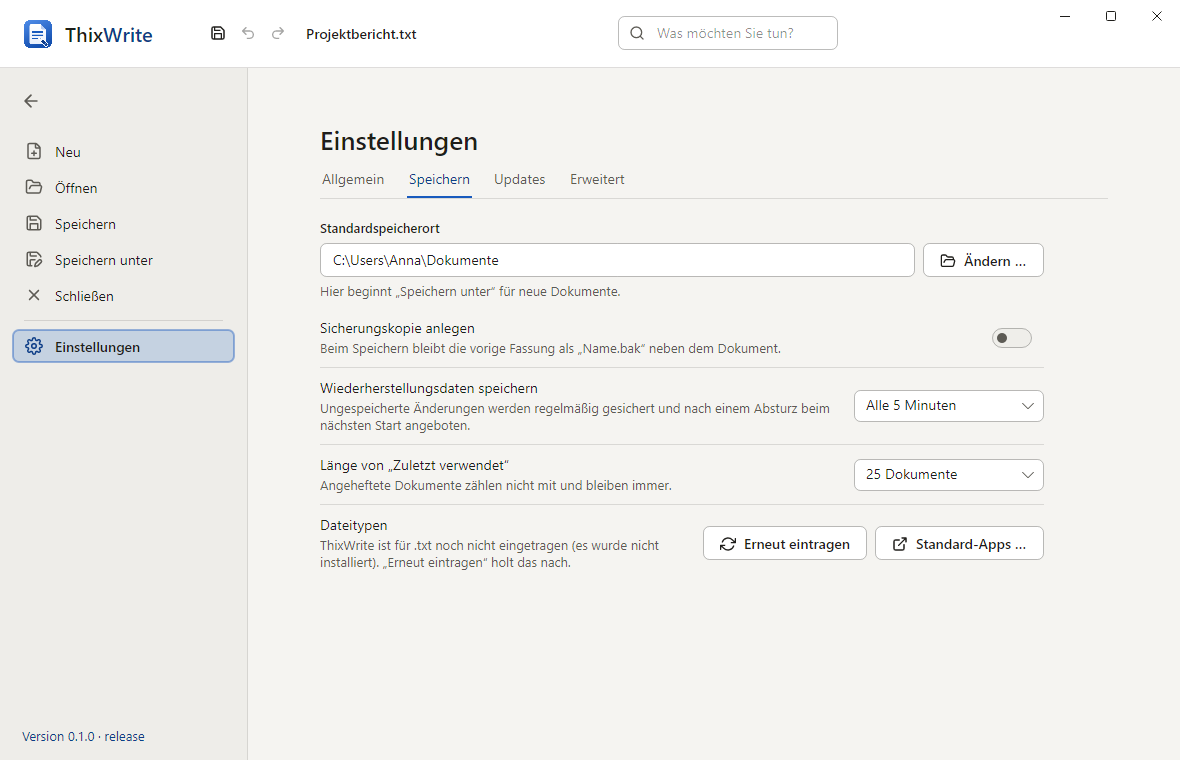
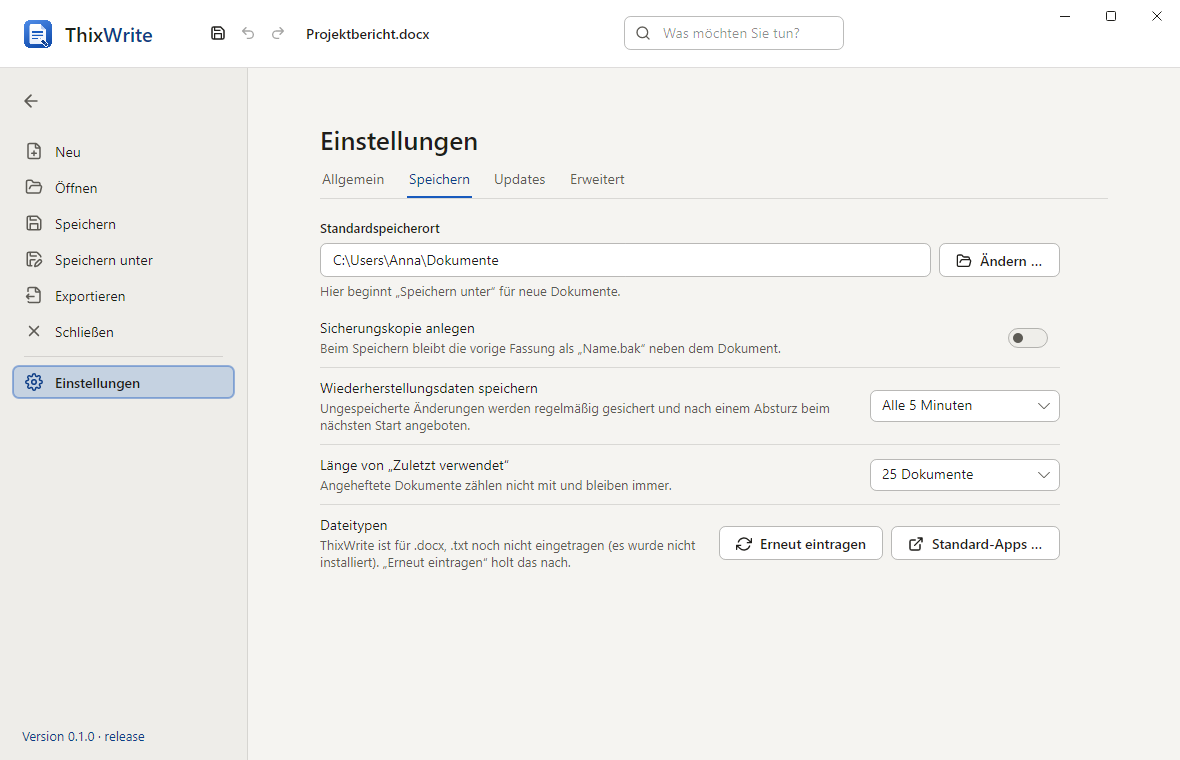
Docs: ThixWrite milestone 1a – README with the new pictures and the shortcuts, CLAUDE.md map and editor architecture, how to add a command, PLAN status and gaps

diff --git a/CLAUDE.md b/CLAUDE.md
@@ -12,11 +12,11 @@ the other Thix apps (MatDesktop, "Apple-like"). Office formats are the default (
 document is a window of its own, all in one process per app (like Word). UI language German (the Office apps say **"Sie"**,
 like "Was möchten Sie tun?"); code, comments and identifiers English.
 
-**Phase 0 (done): the foundation.** The shared core and desktop, the ThixWrite skeleton with a PLACEHOLDER editor ("Editor folgt",
-a plain text box on `.txt`, so that new / open / save / recent / recovery / unsaved prompt / file activation are real), the
-logos of all three apps, CI, and MatDesktop 0.3.0's MatRibbon, MatBackstage, MatStatusBar and MatQuickAccess in the window.
-**Next:** phase 1a, ThixWrite's native editor and docx (it registers the commands `WriteCommandIds` names; the ribbon shows
-them in their places). Do not build ribbon controls of your own and do not grow the placeholder editor.
+**Phase 0 (done): the foundation.** The shared core and desktop, the logos of all three apps, CI, and MatDesktop 0.3.0's
+MatRibbon, MatBackstage, MatStatusBar and MatQuickAccess in the window.
+**Milestone 1a (done): ThixWrite's native editor** on `WordDocument` (docx default, txt), the filled ribbon, find/replace,
+page setup, zoom, PDF export (see "ThixWrite's editor" below; gaps in docs/PLAN.md). **Next:** 1b (tables, images, headers
+and footers, printing …). Do not build ribbon controls of your own.
 
 Stack: **.NET 10** (`global.json` 10.0.100, latestMinor), C#, **Avalonia 11.3.22** with **MatDesktop 0.3.0** (a copy), xunit +
 Avalonia.Headless. Reference apps (sibling folders): ThixCalendar (structure, setup, OTA), ThixNote (document app: file types,
@@ -54,6 +54,7 @@ src/ThixOffice.Core        (no UI) shared by every app; every service is paramet
 src/ThixOffice.Desktop     shared Avalonia UI
   MatDesktop/              COPY of MatDesign's desktop toolkit 0.3.0 (never edited here)
   OfficeApplication        base Application of every app: Definition, CreateDocument, CreateEditor, AddCommands, CreateRibbon(window),
+                           CreateBackstageItems(window), SelfTestChecks, SnapshotScenes + ShowSnapshotScene/EndSnapshotScene,
                            FillSampleDocument; start-up (self test, Windows setup modes, single instance forwarding files, recovery,
                            crash reports, theme), NewDocumentWindow, ShowWindow, OpenFilesAsync/OpenFileAsync, HandleActivation,
                            ExitApplication / OnExit (installs a downloaded update); the last window ends the app on Windows, not on
@@ -64,23 +65,40 @@ src/ThixOffice.Desktop     shared Avalonia UI
                            unsaved dot, CommandSearchBox; MatRibbon; message bar; editor; status bar; backstage over it all;
                            keyboard; unsaved prompt; recovery timer), OfficeRibbonBinding + OfficeRibbonItems (see below),
                            OfficeBackstage (MatBackstage with the pages by id; BackstageItem/BackstageContent), OfficeStatusBar
-                           (MatStatusBar: texts by id + zoom), OfficeEditor (the app's part; Zoom 10–500 %), CommandSearchBox,
+                           (MatStatusBar: texts by id + zoom), OfficeEditor (the app's part; Zoom 10–500 %, OpeningWarning, RequestZoomLevel), CommandSearchBox,
                            IFileDialogs + SystemFileDialogs
   Pages/                   NewPage, OpenPage (Durchsuchen + Zuletzt verwendet: search, sort, pin, show, remove), SaveAsPage,
                            SettingsPage (Allgemein | Speichern | Updates | Erweitert), AboutPage
   Dialogs/                 QuestionDialog (+ SaveChangesDialog: Speichern, Abbrechen, gap, Nicht speichern), ProblemReportDialog
   Controls/                ActionBar, IconLabel, InfoBar, FormErrors (from the reference apps)
-src/ThixWrite.Core         ThixWriteApp.Definition; Documents/TextDocument (PHASE 0 ONLY: plain text, typing undo)
-src/ThixWrite              App (OfficeApplication), Program, Editor/PlaceholderEditor (PHASE 0 ONLY), Editor/WriteRibbon
-                           (WriteCommandIds; the ribbon Start | Einfügen | Layout | Ansicht as a MatRibbonDefinition; "Datum und
-                           Uhrzeit"), Assets (rendered by tools/render-icons.js)
+src/ThixOffice.Text        (no UI, no native code) ITextMeasurer, FontSpec/FontMetrics, ShapedText, FixedWidthTextMeasurer (tests),
+                           Drawing/ display lists (GlyphRunItem, RectangleItem, LineItem in points), Unicode/ LineBreaker (UAX 14),
+                           TextBoundaries (graphemes, words)
+src/ThixOffice.Text.Skia   SkiaTextMeasurer (SkiaSharp typefaces + HarfBuzz shaping, font fallback), SkiaPageRenderer (display list
+                           → any SKCanvas), PdfExport (SKDocument.CreatePdf); SkiaSharp 2.88.9 / HarfBuzzSharp 8.3.1.1 = Avalonia's
+src/ThixWrite.Core         (no UI) ThixWriteApp.Definition (.docx Supported + default, .txt Supported, .odt/.rtf Planned);
+                           Model/ (Document of immutable blocks, styles, lists, sections, preserved content), Editing/ (EditingSession:
+                           selection, every command as a reversible transaction, undo, clipboard fragments, find/replace,
+                           GetFormatting), Layout/ (DocumentLayout: incremental line breaking + pagination, hit testing, caret and
+                           selection geometry, display lists), Formats/ (docx with the Open XML SDK, plain text),
+                           Documents/WordDocument (OfficeDocument: Content + Session; LoadedFormat / SaveFormat), BlankDocument +
+                           DocumentFonts (new documents: Aptos → Calibri → Helvetica Neue → Arial, whatever the machine has)
+src/ThixWrite              App (OfficeApplication: WordDocument, WriteEditor, commands, ribbon, backstage page, self test, snapshot
+                           scenes), Program, WriteSelfTest, Editor/ (WriteEditor, DocumentSurface + CaretLayer + WriteInputClient,
+                           PagePictures + PageDrawOperation + FormattingMarks, FindBar, WriteCommands, WriteRibbon + WriteCommandIds,
+                           DocumentPalette, WriteFonts, SampleDocument), Dialogs/ (WriteDialog, PageSetupDialog, ZoomDialog),
+                           Pages/ExportPage (Datei › Exportieren: PDF), Assets (rendered by tools/render-icons.js)
 tests/ThixOffice.Core.Tests     definition, version, settings, policies, recent list, atomic save, recovery, install / file types /
                                 autostart in an in-memory registry (+ the whole setup on Windows), updates, commands, MatCloud copy
 tests/ThixOffice.Desktop.Tests  headless with a small TestOfficeApp: shell, search, backstage, keyboard, unsaved prompt, ribbon
                                 binding, quick access, zoom,
                                 settings + lock, no literal colours, MatDesktop copy
-tests/ThixWrite.Tests           the real ThixWrite headless: new/type/save, open/replace/bring to front, recent list, prompts,
-                                recovery, second start, refusal of docx, commands, snapshots, no literal colours
+tests/ThixWrite.Core.Tests      model, editing engine (random undo/redo symmetry), layout (fixed-width measurer, 300 pages),
+                                docx/txt round trips and fixtures, Unicode rules, Skia measurer and PDF
+tests/ThixWrite.Tests           the real ThixWrite headless, driven by real key / text / pointer events: typing, caret movement,
+                                selection, formatting shortcuts, ribbon state, lists, mouse, clipboard, IME client, virtualization,
+                                zoom, find bar, page setup / zoom dialogs, unsupported-content warning, docx / txt through the
+                                window flow, PDF export, recent list, prompts, recovery, snapshots, no literal colours
 branding/<id>/             logo-icon, logo-small, logo-document(-small), logo-full SVGs + png/ + .ico; branding/launcher/<id>.png
 tools/render-icons.js      renders every app's logos (installed Edge, playwright-core)
 scripts/package-macos.sh   <Name>.app per app (Info.plist with CFBundleGetInfoString "<Name> <version>", document types from
@@ -115,6 +133,40 @@ scripts/package-macos.sh   <Name>.app per app (Info.plist with CFBundleGetInfoSt
   `OfficeEditor.Zoom` (10–500 %, `OnZoomChanged`, `ZoomChanged`) follow each other; commands `view.zoomIn/zoomOut/zoom100`.
 - The ribbon's collapsed state is remembered (`AppSettings.IsRibbonCollapsed`, `MatRibbon.CollapsedChanged`).
 
+## ThixWrite's editor
+
+- **Per window:** `WordDocument` (model `Content` + `EditingSession`) → `WriteEditor` (an `OfficeEditor`) makes a
+  `DocumentLayout` (shared `WriteFonts.Measurer`, sets `Session.Navigator`) and a `DocumentSurface` in a ScrollViewer; opening a
+  file into the window makes a new editor. Everything that changes the document goes through the session; the view only listens.
+- **Drawing:** the surface's size is all pages stacked (points × zoom × 96/72, gaps from `LayoutOptions.PageGap`); `Render`
+  draws only the pages in the effective viewport: paper (white `DocumentPalette.Paper`, `Mat.Border` + a shadow from
+  `Mat.Overlay`) through Avalonia, then ONE custom draw operation (`PageDrawOperation`, Skia lease) that replays each page's
+  `SKPicture` (`PagePictures`: recorded from `DocumentLayout.GetDisplayList` with `SkiaPageRenderer`, + `FormattingMarks` when
+  ¶ is on; invalidated from `DocumentLayout.Changed.FirstChangedPage`), then the selection (`Mat.Selection`). Vector pictures
+  stay crisp at any zoom/DPI. The caret and the IME composition are a separate layer (`CaretLayer`): blinking never redraws pages.
+- **Refresh:** session `ContentChanged`/`SelectionChanged` → `ScheduleRefresh` (once, Normal priority): layout update, caret,
+  keep the caret in view (`BringIntoView`), notify the IME client. `StateChanged` → `WriteEditor.ScheduleState` (once per round,
+  Background priority): `Commands.Invalidate()` (ribbon sync through `GetFormatting()`, cached by the session) and the status bar.
+- **Input:** `DocumentSurface.HandleKey` (movement with Shift; Strg/⌥ = word, ⌘←/→ = line, Strg/⌘+Pos1/Ende = document;
+  Backspace/Entf, Enter, Umschalt+Enter, Tab in lists), `OnTextInput` (control characters dropped), `WriteInputClient`
+  (surrounding text = the caret's paragraph, cursor rectangle, preedit shown by the caret layer), pointer (click, Shift+click,
+  drag with auto-scroll, double = word, triple = paragraph, right click keeps a selection, context menu). The window handles
+  every command shortcut first (tunnel); commands with `YieldsToTextField` leave their keys to a focused TextBox.
+- **Clipboard:** `DataFormat.CreateBytesApplicationFormat("ThixWrite.Fragment")` (the core's docx fragment) + text.
+- **Colours:** chrome only Mat tokens; document colours (paper, ink, marks, font/highlight palettes) only in
+  `Editor/DocumentPalette.cs` – the one file the colour rules test exempts.
+
+### Adding a command to ThixWrite
+
+1. An id in `WriteCommandIds` (`write.<name>`; value commands note their value format).
+2. Register it in `WriteCommands.Add` (or `App.AddCommands`): `OfficeCommand` (or `OfficeValueCommand` for a font, size, colour,
+   style, number) with German label, sprite icon, `Shortcut`/`MacShortcut`, `Description`, `Keywords`, `CanExecute`,
+   `IsChecked` reading `Format()` (the session's cached formatting; mixed = unchecked/null). Act on `Editor()` at run time.
+   A shortcut that a text field also uses (copy, select all) gets `YieldsToTextField = true`.
+3. Place it in `WriteRibbon` with `OfficeRibbonItems` (or a Mat item whose id is the command id). Menu entries are commands of
+   their own (`IsSearchable = false`). Ids must be unique in the definition (`Problems()`): a second place needs an alias command.
+4. A test through real input in tests/ThixWrite.Tests; check the snapshots.
+
 ## Build / run / test
 
 - `dotnet build ThixOffice.slnx` – expected: 0 warnings, 0 errors. `dotnet test ThixOffice.slnx` – all green.
@@ -122,12 +174,17 @@ scripts/package-macos.sh   <Name>.app per app (Info.plist with CFBundleGetInfoSt
   recovery in that folder) that never meets the installed one. A development build never runs the setup.
 - **Snapshots:** `dotnet run --project src/ThixWrite -- --snapshot <folder>` draws every window headless in light and dark
   (`thixwrite-main`, `-main-ribbon-collapsed`, `-backstage-{new,open,saveas,settings,settings-save,settings-updates,about}`,
-  `-dialog-save-changes`, `-setup-{welcome,options,update,uninstall}` on Windows): version 0.1.0, ANNA-PC, C:\Users\Anna\Dokumente,
-  a sample recent list – no real path shows. `THIXWRITE_SCREENSHOTS=<folder> dotnet test tests/ThixWrite.Tests` does the same
-  from the tests. LOOK at the pictures after a change of the UI; `docs/images` has the ones of the README.
-- The Windows publish (win-x64) is a **trimmed** single file (`TrimMode=partial`, own assemblies rooted, ~35 MB).
-  `ThixWrite.exe --self-test <report>` checks the published program (settings, documents, recovery, manifest, contract, DPAPI,
-  COM, document icon, every window); CI runs it.
+  `-dialog-save-changes`, `-setup-{welcome,options,update,uninstall}` on Windows, and the app's scenes
+  (`OfficeApplication.SnapshotScenes`; ThixWrite: `-main-layout`, `-main-view`, `-main-find`, `-dialog-page-setup`,
+  `-backstage-export`)): the sample report (`SampleDocument`), version 0.1.0, ANNA-PC, C:\Users\Anna\Dokumente, a sample recent
+  list – no real path shows. `THIXWRITE_SCREENSHOTS=<folder> dotnet test tests/ThixWrite.Tests` does the same from the tests.
+  LOOK at the pictures after a change of the UI; `docs/images` has the ones of the README.
+- The Windows publish (win-x64) is a **trimmed** single file (`TrimMode=partial`, own assemblies + ThixOffice.Text(.Skia) rooted,
+  ~43 MB; Avalonia, SkiaSharp, HarfBuzz and the Open XML SDK are trimmed as libraries that declare themselves trimmable – keep
+  ThixWrite's own code free of reflection: `XmlFragments.Parse<TParent>`, no `Activator`). `ThixWrite.exe --self-test <report>`
+  checks the published program (settings, documents, recovery, manifest, contract, DPAPI, COM, document icon, every window, and
+  the app's `SelfTestChecks`: ThixWrite types into a real editor, formats, saves docx, reopens and compares, keeps a table, draws a
+  page with Skia, exports a PDF); CI runs it.
 - Icons: `cd tools && npm install && node render-icons.js` (`--preview <png>` draws every app at 16–256 px on light and dark – look).
 - **MatDesktop** (`src/ThixOffice.Desktop/MatDesktop/`) is a COPY from MatDesign (0.3.0 from branch `feature/ribbon`,
   `src/MatDesktop`, version in `matdesktop.version`): never edit it here; copy again with `node tools/matdesktop-copy.js

diff --git a/README.md b/README.md
@@ -8,37 +8,61 @@ und die aussieht wie die übrigen Thix-Apps.
 
 | Programm | statt | Formate | Stand |
 | --- | --- | --- | --- |
-| **ThixWrite** | Word | docx, später odt | Phase 0: Fundament, Editor folgt |
+| **ThixWrite** | Word | docx, txt, später odt | Meilenstein 1a: nativer Editor, docx, PDF-Export |
 | **ThixCalc** | Excel | xlsx, csv, später ods | Logo |
 | **ThixShow** | PowerPoint | pptx, später odp | Logo |
 
 Der Plan steht in [docs/PLAN.md](docs/PLAN.md).
 
-## ThixWrite – Stand Phase 0
+## ThixWrite – Stand Meilenstein 1a
 
-Das Fenster mit Titelleiste (Logo, Schnellzugriff, Dokumentname, Befehlssuche), Menüband (Start, Einfügen, Ansicht – es
-füllt sich mit dem Editor; Strg+F1 reduziert es, Alt zeigt die Tastaturtipps), Statusleiste mit Zoom und „Datei“ (Neu,
-Öffnen mit „Zuletzt verwendet“, Speichern, Speichern unter, Schließen, Einstellungen, Info) ist fertig. Der Textverarbeitungs-Editor
-selbst entsteht in der nächsten Phase; bis dahin bearbeitet ThixWrite einfache Textdateien (.txt), damit Neu, Öffnen,
-Speichern, „Zuletzt verwendet“, die Wiederherstellung nach einem Absturz und die Frage „Änderungen speichern?“ schon echt
-funktionieren. Word-Dateien (.docx) öffnet ThixWrite erst, wenn es sie lesen kann – vorher werden sie weder angeboten noch
-überschrieben.
+ThixWrite ist eine Textverarbeitung mit eigenem, nativem Editor: Seiten wie auf Papier (weiß, auch im dunklen
+Erscheinungsbild), Zeichen- und Absatzformat, Formatvorlagen, Aufzählung und Nummerierung, Rückgängig/Wiederholen, Zwischenablage
+(mit Formatierung zwischen ThixWrite-Fenstern, „Nur Text einfügen“ mit Strg+Umschalt+V), Suchen und Ersetzen, Seite einrichten,
+Zoom (auch Strg+Mausrad, Seitenbreite, Ganze Seite), Formatierungszeichen und „Als PDF exportieren“. Eingabemethoden (Umlaute,
+Akzente mit Tottasten, Emoji-Panel, chinesisch/japanisch) funktionieren.
+
+Word-Dokumente (.docx) sind das Standardformat; .txt wird als reiner Text gelesen und geschrieben. Inhalte, die ThixWrite noch
+nicht anzeigt (Tabellen, Bilder, Kopf-/Fußzeilen, Kommentare …), bleiben beim Speichern erhalten – beim Öffnen sagt ein Hinweis,
+welche es sind. Direktes Drucken folgt; bis dahin führt der Weg über das PDF.
 
 ![ThixWrite hell](docs/images/thixwrite-main-light.png)
 
 ![ThixWrite dunkel](docs/images/thixwrite-main-dark.png)
 
-| Öffnen | Einstellungen › Speichern |
+| Suchen und Ersetzen (Strg+F, Strg+H) | Layout und Formatierungszeichen |
 | --- | --- |
-| ![Öffnen](docs/images/thixwrite-backstage-open-light.png) | ![Einstellungen](docs/images/thixwrite-backstage-settings-save-light.png) |
-| **Info** (über die Versionsnummer unten links) | **Änderungen speichern?** |
-| ![Info](docs/images/thixwrite-backstage-about-light.png) | ![Änderungen speichern](docs/images/thixwrite-dialog-save-changes-light.png) |
+| ![Suchen und Ersetzen](docs/images/thixwrite-main-find-light.png) | ![Layout](docs/images/thixwrite-main-layout-light.png) |
+| **Seite einrichten** | **Ansicht › Ganze Seite** |
+| ![Seite einrichten](docs/images/thixwrite-dialog-page-setup-light.png) | ![Ganze Seite](docs/images/thixwrite-main-view-dark.png) |
+| **Datei › Exportieren** (PDF) | **Öffnen** |
+| ![Exportieren](docs/images/thixwrite-backstage-export-light.png) | ![Öffnen](docs/images/thixwrite-backstage-open-light.png) |
+| **Einstellungen › Speichern** | **Änderungen speichern?** |
+| ![Einstellungen](docs/images/thixwrite-backstage-settings-save-light.png) | ![Änderungen speichern](docs/images/thixwrite-dialog-save-changes-light.png) |
+
+### Tastenkürzel
+
+Wie im deutschen Word, wo sie nicht kollidieren (unter macOS ⌘ statt Strg, ⌥ für Wort-Bewegungen):
+
+| Kürzel | Befehl |
+| --- | --- |
+| Strg+Umschalt+F / K / U (auch Strg+B / I / U) | Fett / Kursiv / Unterstrichen |
+| Strg+L / E / R / J | Linksbündig / Zentriert / Rechtsbündig / Blocksatz (Strg+B ist Fett, nicht Blocksatz) |
+| Strg+Leertaste (⇧⌘Leertaste) | Formatierung löschen |
+| Strg+F / Strg+H (⌥⌘F) | Suchen / Ersetzen |
+| Strg+A, Strg+C/X/V, Strg+Umschalt+V | Alles markieren, Zwischenablage, Nur Text einfügen |
+| Strg+Eingabe, Umschalt+Eingabe | Seitenumbruch, Zeilenumbruch |
+| Tab / Umschalt+Tab | in Listen: Ebene tiefer / höher |
+| Alt+Umschalt+D | Datum und Uhrzeit |
+| Strg+P | Exportieren (PDF) |
+| Strg+Z / Strg+Y (⇧⌘Z), Strg+S, F12, Strg+F1 | Rückgängig / Wiederholen, Speichern, Speichern unter, Menüband |
 
 ## Installieren
 
 - **Windows:** `ThixWriteSetup.exe` aus dem Release-Kanal herunterladen und starten. Das Programm installiert sich selbst für
   das eigene Benutzerkonto (ohne Administratorrechte) nach `%LocalAppData%\Programs\ThixWrite`, trägt sich im Startmenü, unter
-  „Installierte Apps“ und unter „Öffnen mit“ ein. Entfernen über „Installierte Apps“.
+  „Installierte Apps“ und unter „Öffnen mit“ für Word-Dokumente (.docx) und Textdateien ein – Standardprogramm wird ThixWrite
+  nur, wenn Sie es in den „Standard-Apps“ von Windows wählen. Entfernen über „Installierte Apps“.
 - **macOS:** `ThixWrite-macOS-arm64.dmg` (Apple Silicon) bzw. `-x64.dmg` (Intel) öffnen und ThixWrite in „Programme“ ziehen.
 - Updates kommen automatisch aus dem eigenen Kanal (`release-channel` für main, `nightly-channel` für dev) und werden
   installiert, wenn ThixWrite geschlossen wird – nie mitten in der Arbeit.

diff --git a/docs/PLAN.md b/docs/PLAN.md
@@ -1,6 +1,6 @@
 # ThixOffice – Plan
 
-Stand: 2026-11-18. Dieser Plan ist die Arbeitsgrundlage; er wird mit jedem Meilenstein fortgeschrieben.
+Stand: 2026-11-19. Dieser Plan ist die Arbeitsgrundlage; er wird mit jedem Meilenstein fortgeschrieben.
 
 ## 1. Ziel
 
@@ -143,7 +143,18 @@ Jede Phase endet mit grünem Build, Tests, Push nach `dev` (Nightly) und – wen
   Seiten-Layout mit Umbruch, Cursor/Auswahl/IME, Zeichen- und Absatzformat, Formatvorlagen,
   Aufzählung/Nummerierung, Rückgängig, Zwischenablage, Suchen/Ersetzen, Seite einrichten,
   docx lesen/schreiben, PDF-Export/Drucken, Zoom. Menüband: Datei, Start, Einfügen, Layout, Ansicht.
-- **1b:** Tabellen, Bilder, Kopf-/Fußzeilen, Seitenzahlen, Seitenumbrüche, Hyperlinks, Tabstopps.
+- **Stand 1a (2026-11-19): erledigt** bis auf das direkte Drucken. Nativer Editor (Seiten als Skia-Bilder, nur sichtbare
+  Seiten gezeichnet, Zoom 10–500 % inkl. Strg+Mausrad / Seitenbreite / Ganze Seite, Papier weiß auch im dunklen Modus),
+  Tastatur mit Windows- und Mac-Konventionen, Maus (Klick, Umschalt+Klick, Ziehen mit Auto-Scroll, Doppel-/Dreifachklick),
+  Eingabemethoden (IME-Client mit Umgebungstext und Cursor-Rechteck), Zwischenablage (eigenes Fragment + Text, „Nur Text
+  einfügen“), Menüband Start / Einfügen / Layout / Ansicht mit Zustand aus der Auswahl, Suchen/Ersetzen-Leiste, Dialoge Seite
+  einrichten und Zoom, Datei › Exportieren (PDF), docx als Standardformat (Dateizuordnung Windows + macOS-Plist als
+  „Alternate“), Hinweis bei nicht unterstützten Inhalten, Statusleiste (Seite X von Y, Wörter), Selbsttest der getrimmten exe.
+  **Lücken (→ 1b):** direktes Drucken (bis dahin PDF), Lineal, Format übertragen, Symbol einfügen, Dialoge Schriftart… /
+  Absatz…, Kontextmenü ohne Format-Einträge, Wort-weises Ziehen nach Doppelklick, IME-Komposition als Überlagerung (nicht im
+  Textfluss), Zwischenablage-Import von HTML/RTF aus anderen Programmen, Formatvorlagen-Galerie mit festen Einträgen.
+- **1b:** Drucken, Tabellen, Bilder, Kopf-/Fußzeilen, Seitenzahlen, Hyperlinks, Tabstopps (Lineal), Dialoge Schriftart/Absatz,
+  HTML/RTF einfügen.
 - **1c:** Inhaltsverzeichnis, Fußnoten, Kommentare, Rechtschreibprüfung, odt; Karten Referenzen/Überprüfen.
 - Danach: Launcher-Eintrag (siehe 6).
 
